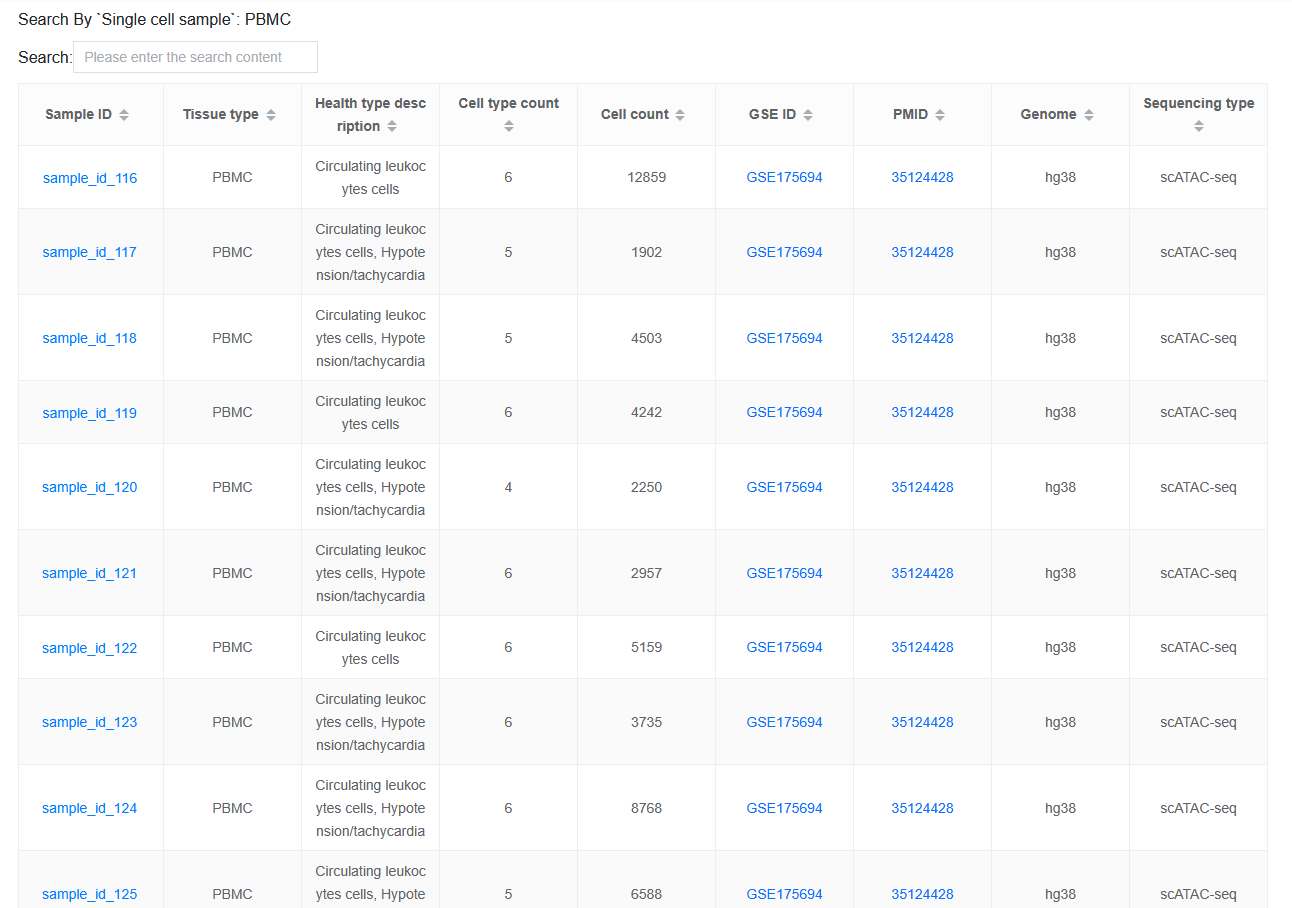
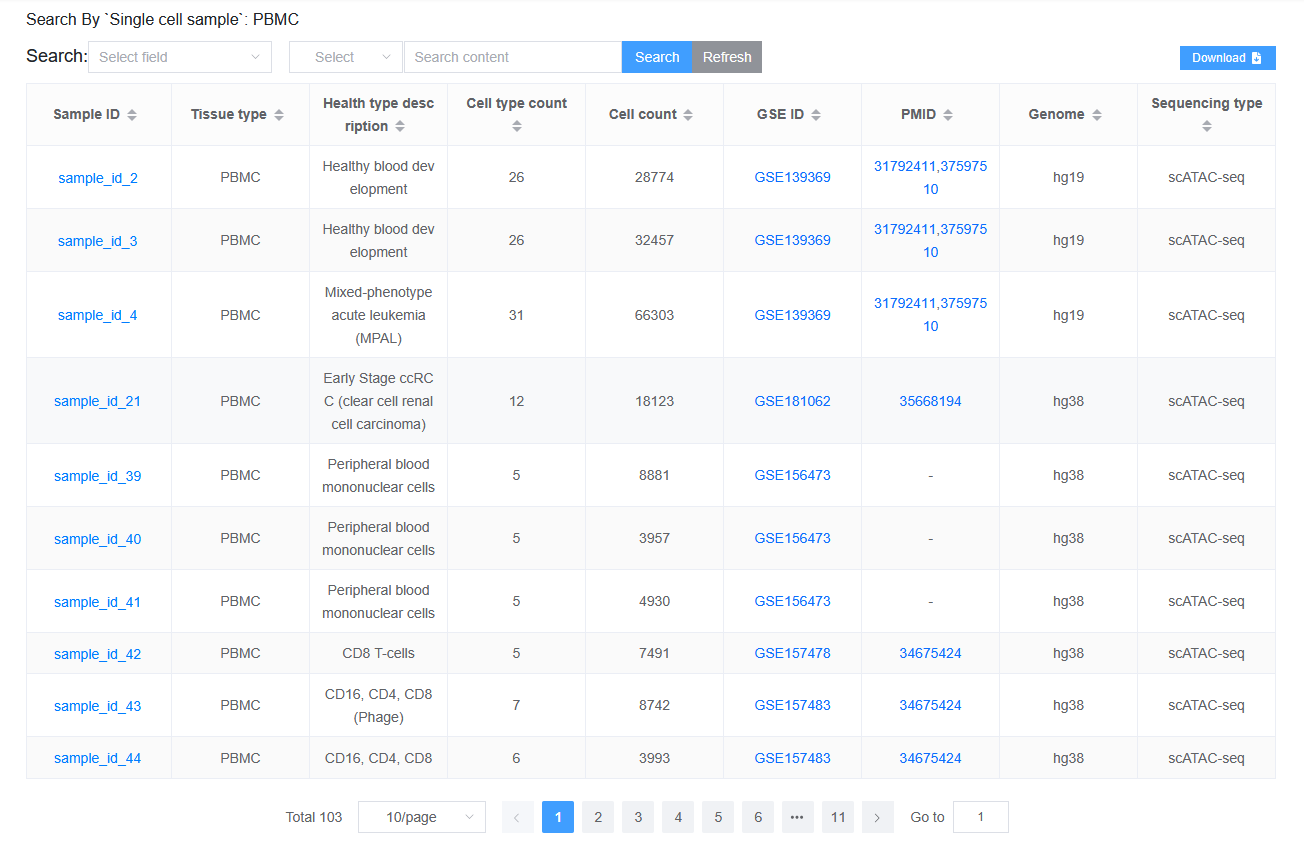
feat: Improve the documentation and FAQs

diff --git a/docs/source/problem.rst b/docs/source/problem.rst
@@ -1,4 +1,4 @@
-4. Problem
+4. FAQ (Frequently Asked Questions)
 ===========================
 
 Here we will answer common questions.
@@ -6,7 +6,18 @@ Here we will answer common questions.
 If you have any other questions that need to be answered, you can send an email to ``yuzmbio@163.com``.
 Alternatively, you can ask questions on Github `scvdb-tutorial <https://github.com/YuZhengM/scvdb-tutorial>`_.
 
-4.1 There is a problem accessing the website
+4.1 Discovering issues on the website
+----------------------------------------------
+
+We have diligently completed the process of improving the website.
+
+If you discover any issues or areas that need improvement, please contact us promptly. Thank you for your contribution.
+
+.. note::
+
+    If you find any minor issues that are inconvenient to disturb us, you can leave a message on `GitHub <https://github.com/YuZhengM/scvdb-tutorial>`_. Thank you for your effort and time.
+
+4.2 There is a problem accessing the website
 ----------------------------------------------
 
 Occasionally, we update information on the website, which may be due to conflicts between the previously cached data and newly published content.
@@ -20,7 +31,7 @@ Therefore, you need to ``clear the cache and access it again``.
 
     If you have accessed the SCVdb database link before July 19, 2025, it is recommended to clear the cache and access again.
 
-4.2 Publicize front-end and back-end code
+4.3 Publicize front-end and back-end code
 ----------------------------------------------
 
  | SCVdb front-end: https://github.com/YuZhengM/scvdb_web
@@ -34,3 +45,22 @@ At least mastering ``Vue`` and ``Spring Boot`` frameworks is necessary to start 
 .. note::
 
     If you discover any unmodified privacy content, please contact us. We greatly appreciate your kindness.
+
+4.4 Difficulties encountered in searching for trait or disease data
+--------------------------------------------------------------------
+
+Here, we mainly have three modules that provide search functionality: (1). ``Home`` search module, (2). ``Data-browse`` search module, (3). ``Search`` search module.
+
+The data returned by ``Home`` module contains significantly more columns than the data from ``Data-browse`` module.
+
+.. note::
+
+    Only the ``Home`` and ``Data-browse`` modules allow users to get results by fuzzy-searching for a ``trait name``.
+
+The ``Search`` module is designed for professionals who are familiar with disease categories, enabling them to look up specific disease information based on this classification.
+
+.. tip::
+
+    Recommended Workflow:
+    :(1): Initiate a Broad Search: On the homepage, click the search button without entering any criteria. This will retrieve all available data listings.
+    :(2): Apply Custom Filters: Once the full dataset is displayed, you can then narrow down the results by applying custom search conditions based on the columns that interest you.

diff --git a/docs/source/usage/home.rst b/docs/source/usage/home.rst
@@ -27,6 +27,10 @@ Search principle:
 Clicking on the ``Trait ID`` will take you to the corresponding detail page to view detailed content.
 Help document for users to view detail pages: `https://scvdb-tutorial.readthedocs.io/en/latest/usage/detail.html <https://scvdb-tutorial.readthedocs.io/en/latest/usage/detail.html>`_
 
+.. tip::
+
+    When the search field is empty, clicking the search button will return data for all traits and diseases.
+
 .. note::
 
     Here, if the fuzzy search encounters the word "disease", it will be ignored in the search. And it has a slightly different retrieval process from the corresponding function of "Search information by category or source cohort" on the "`Search <http://bio.liclab.net/search>`_" page, but the retrieval results are the same.
@@ -44,6 +48,10 @@ Help document for users to view detail pages: `https://scvdb-tutorial.readthedoc
 
 Clicking on the ``Sample ID`` will take you to the corresponding detail page to view detailed content.
 Help document for users to view detail pages: `https://scvdb-tutorial.readthedocs.io/en/latest/usage/detail.html <https://scvdb-tutorial.readthedocs.io/en/latest/usage/detail.html>`_
+
+.. tip::
+
+    When the search field is empty, clicking the search button will return data for all scATAC-seq samples.
 
 .. note::
 

diff --git a/docs/source/usage/detail.rst b/docs/source/usage/detail.rst
@@ -113,6 +113,8 @@ After clicking the View button, users can see detailed variant information assoc
 
 To systematically investigate the association mechanisms between target traits and specific cell types, we integrated data from two key dimensions: the genetic variation dimension (trait-SNP-effect gene association data) and the cell-type-specific dimension (sample-cell type-differential gene), to construct a trait-cell type association network. This network helps reveal the multi-level regulatory paths through which traits influence cell types and identifies core gene sets.
 
+
+
 .. image:: ../img/detail/gene_hub_network.png
 
 .. note::
